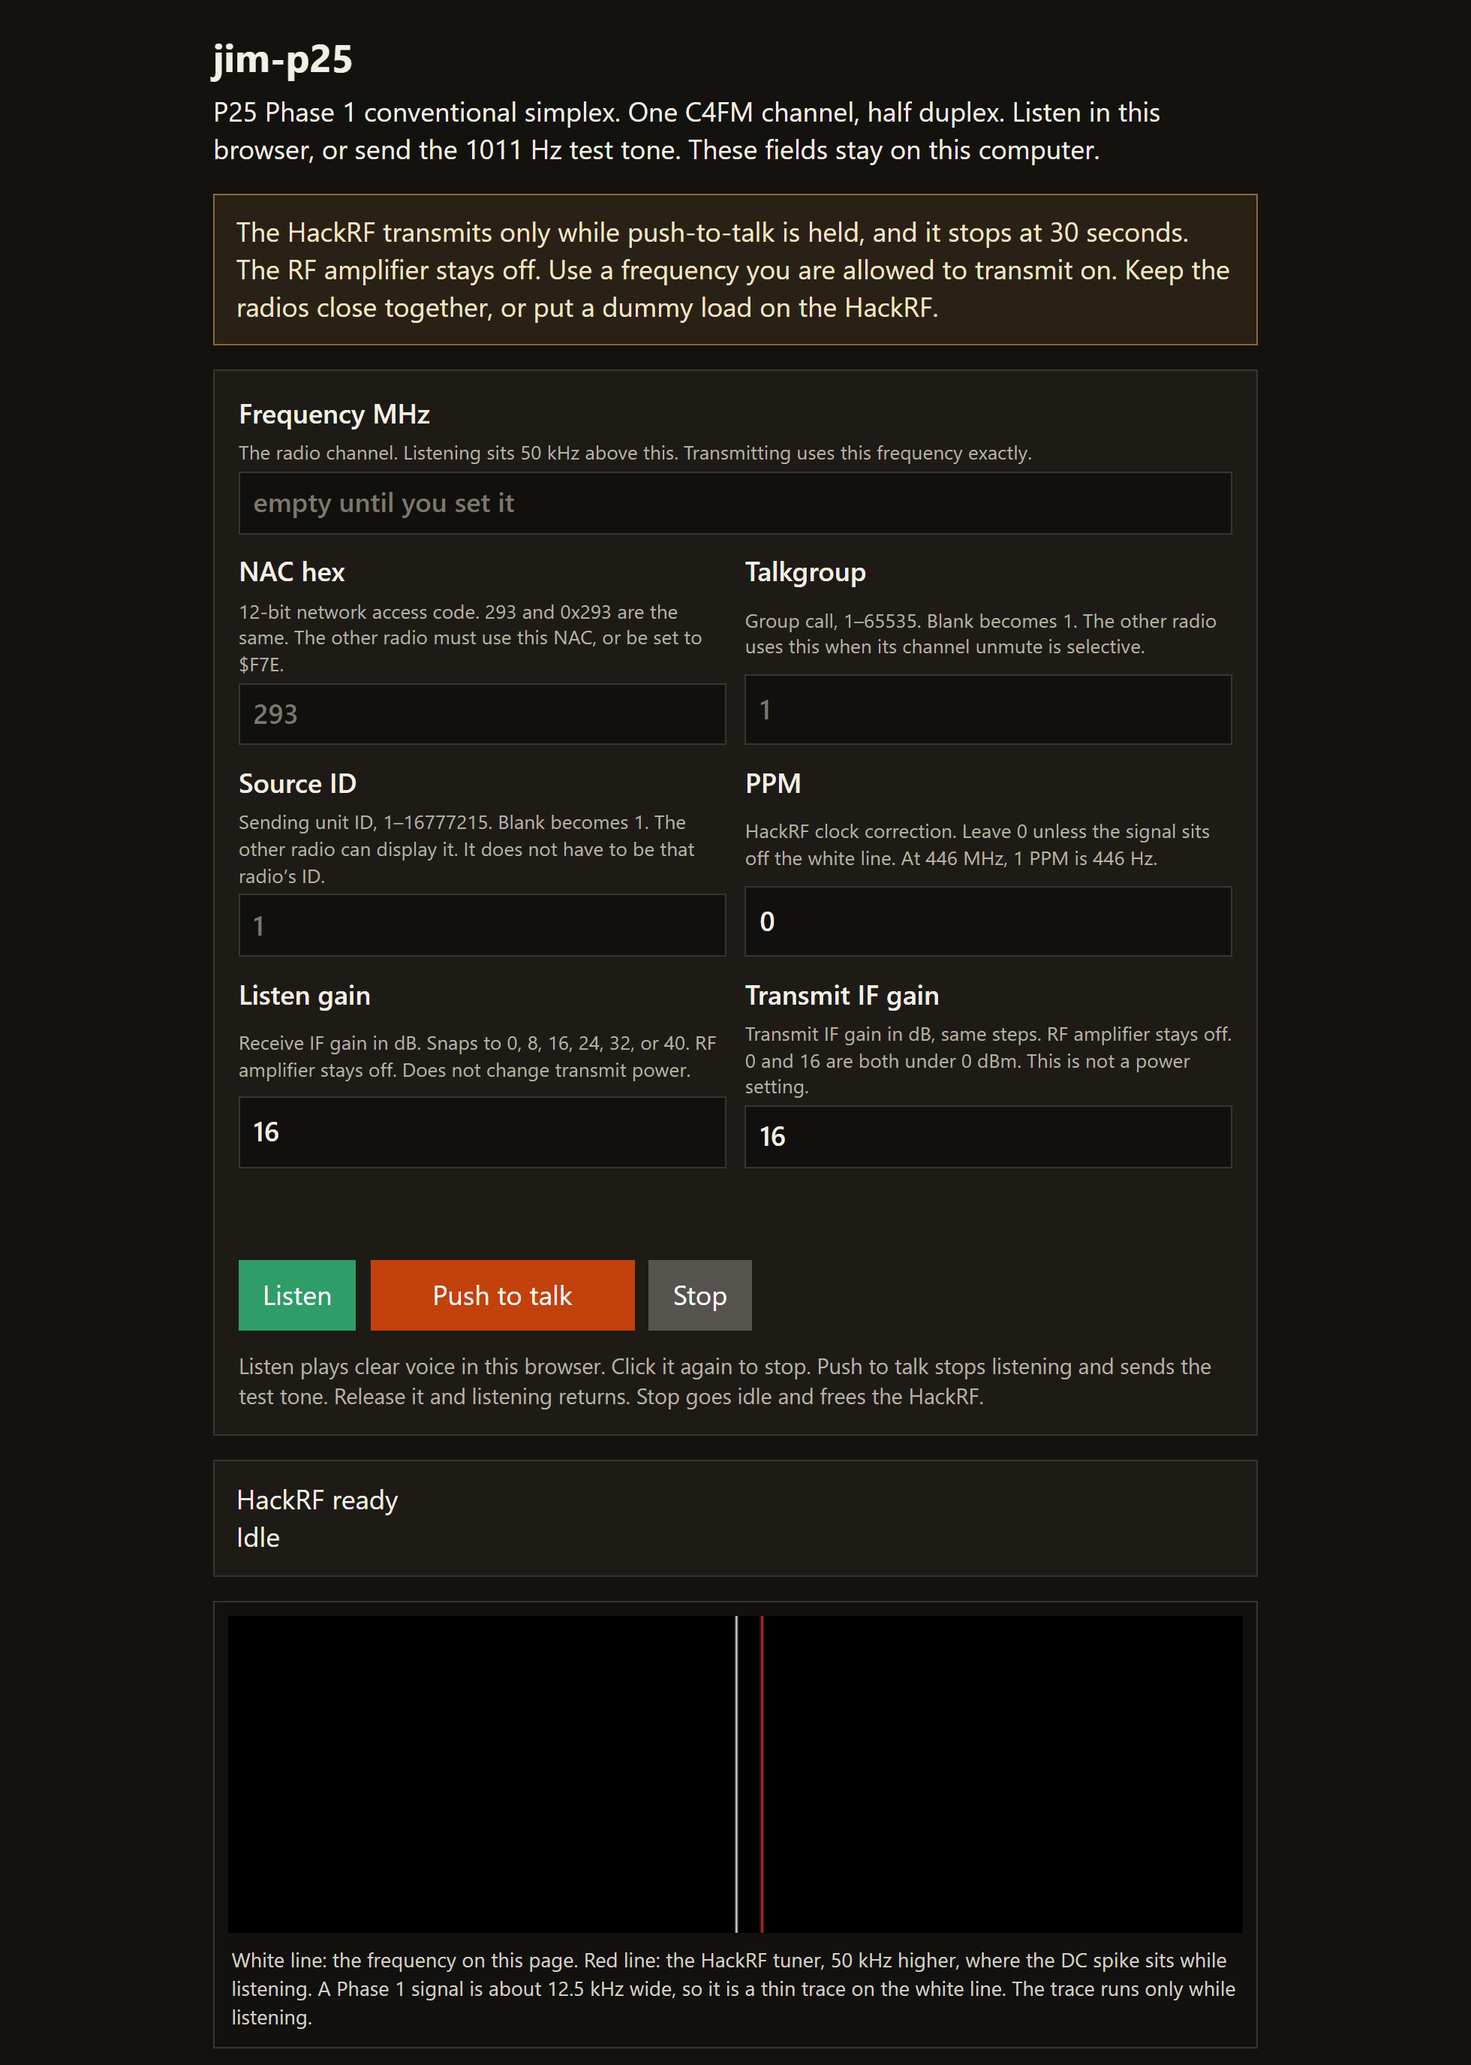
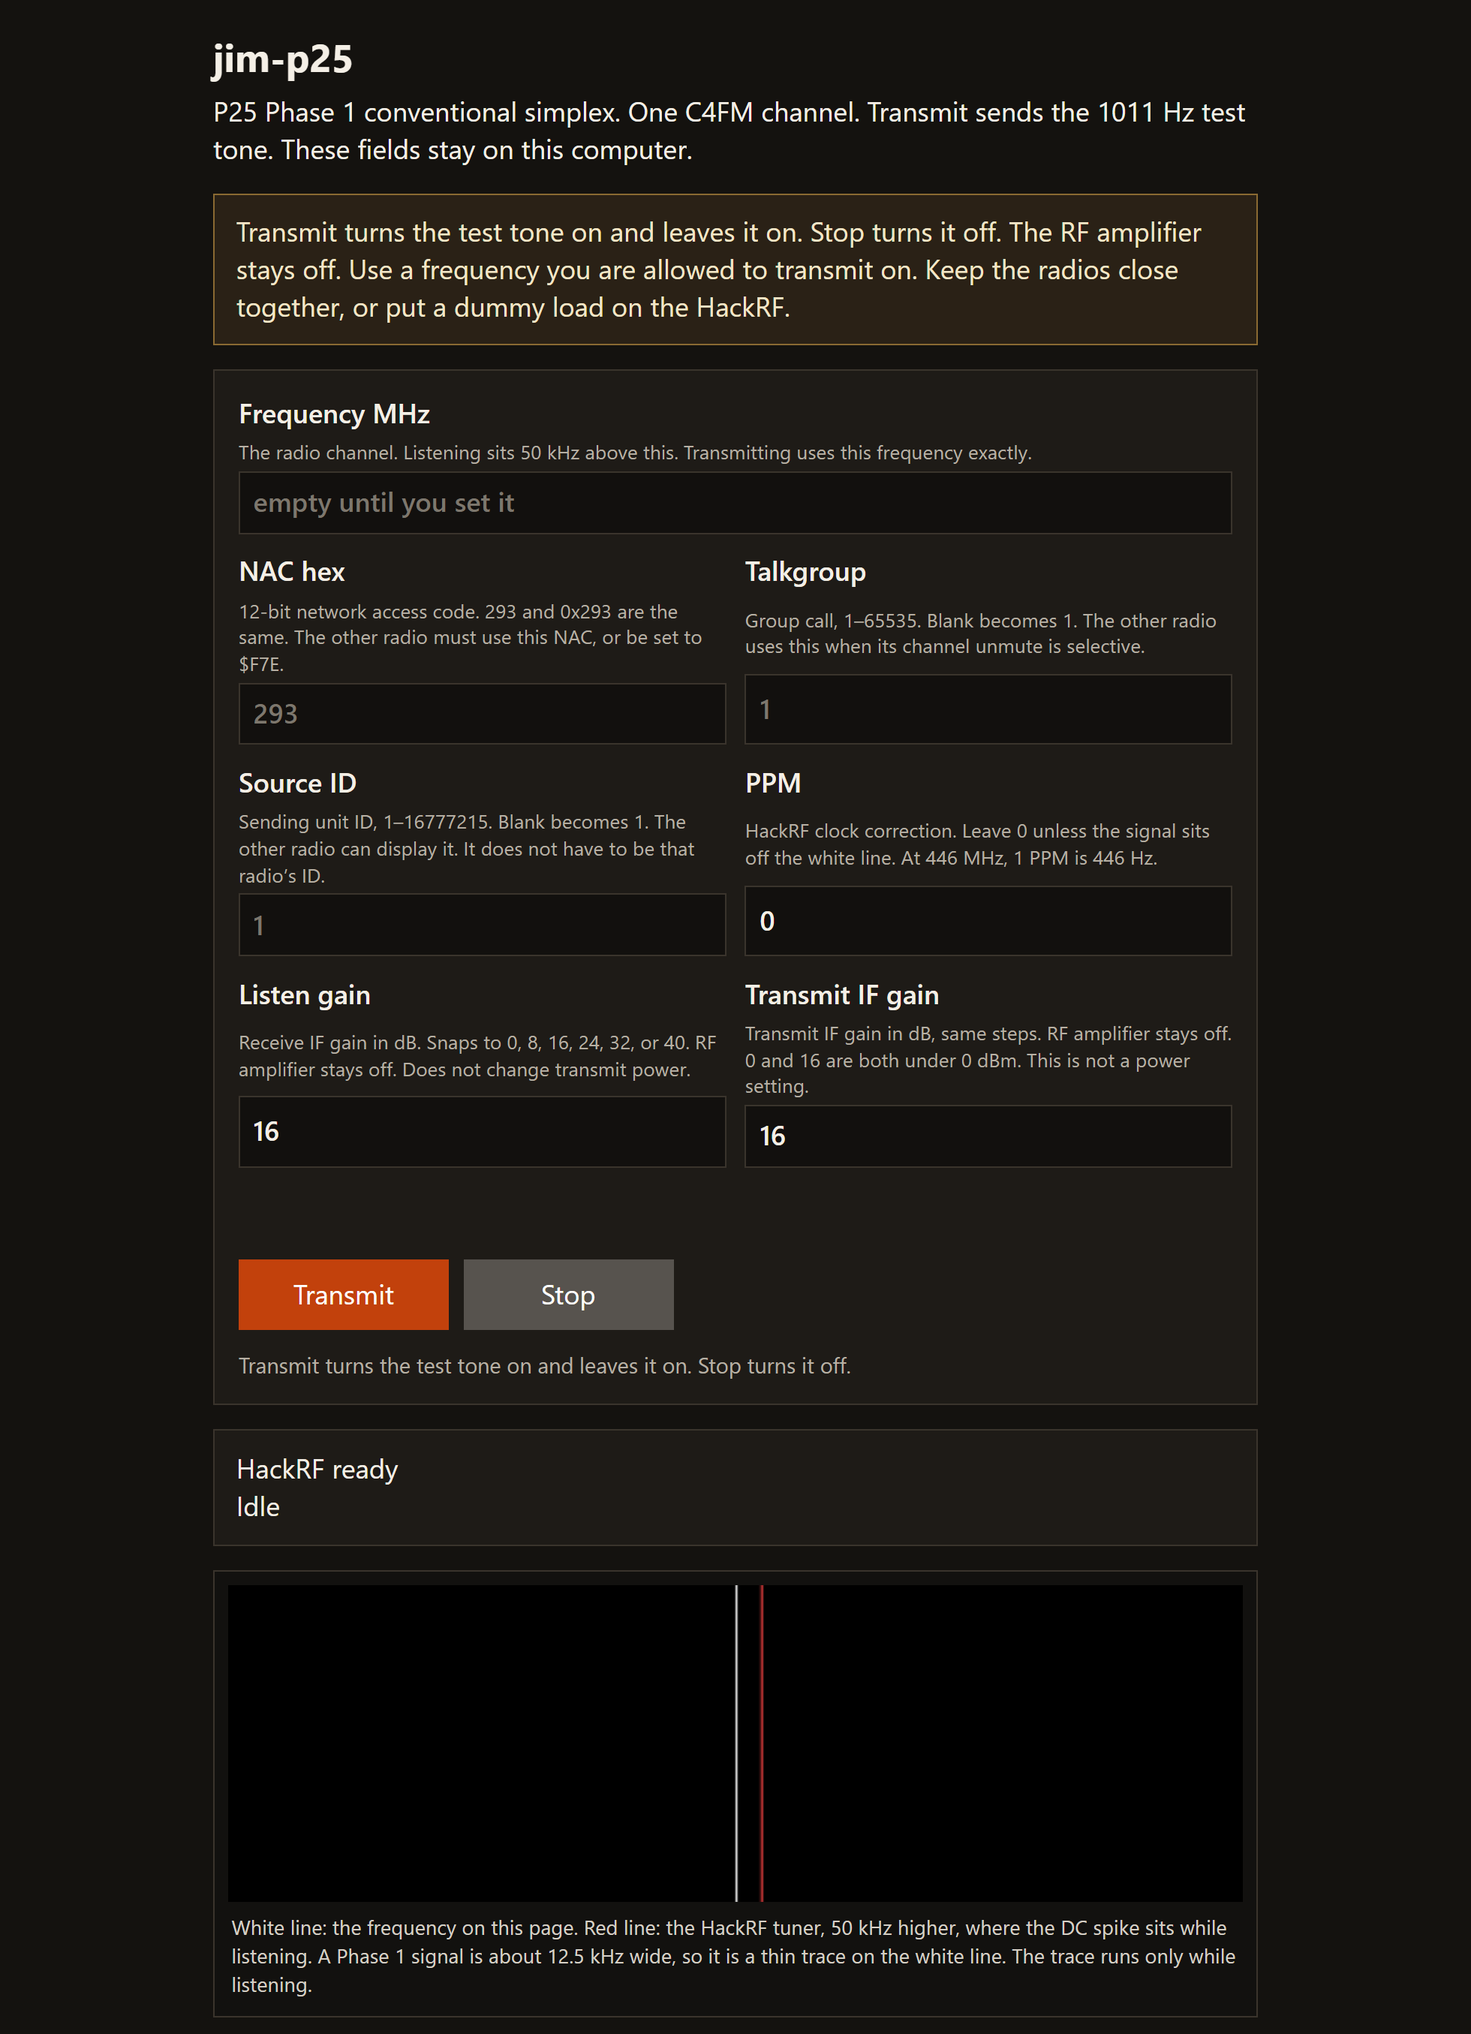
Latch transmit until Stop and document the two-button page.
Transmit leaves the 1011 Hz test tone on, with no time limit. The buttons are Transmit and Stop. NXDN is outside this OP25 build. Screenshots show the empty form.

diff --git a/app/index.html b/app/index.html
@@ -68,10 +68,14 @@
       color: white;
       cursor: pointer;
     }
-    button:disabled { opacity: 0.55; cursor: default; }
+    button:disabled { opacity: 0.45; cursor: default; }
+    .actions button { min-width: 8.75rem; }
     #listen { background: var(--listen); }
-    #ptt { background: var(--tx); min-width: 11rem; }
+    #listen.on { box-shadow: inset 0 0 0 3px #d1fae5; }
+    #ptt { background: var(--tx); }
+    #ptt.on { box-shadow: inset 0 0 0 3px #ffedd5; cursor: default; }
     #stop { background: #57534e; }
+    #stop.needed { background: #b91c1c; }
     #waterfall {
       margin: 1rem 0 0;
       background: #12110f;
@@ -115,9 +119,9 @@
 <body>
   <main>
     <h1>jim-p25</h1>
-    <p>P25 Phase 1 conventional simplex. One C4FM channel, half duplex. Listen in this browser, or send the 1011 Hz test tone. These fields stay on this computer.</p>
+    <p>P25 Phase 1 conventional simplex. One C4FM channel. Transmit sends the 1011 Hz test tone. These fields stay on this computer.</p>
     <div class="warn">
-      The HackRF transmits only while push-to-talk is held, and it stops at 30 seconds.
+      Transmit turns the test tone on and leaves it on. Stop turns it off.
       The RF amplifier stays off. Use a frequency you are allowed to transmit on.
       Keep the radios close together, or put a dummy load on the HackRF.
     </div>
@@ -158,11 +162,10 @@
       </div>
       <p id="err"></p>
       <div class="actions">
-        <button type="button" id="listen">Listen</button>
-        <button type="button" id="ptt">Push to talk</button>
+        <button type="button" id="ptt" aria-pressed="false">Transmit</button>
         <button type="button" id="stop">Stop</button>
       </div>
-      <p class="actionhelp">Listen plays clear voice in this browser. Click it again to stop. Push to talk stops listening and sends the test tone. Release it and listening returns. Stop goes idle and frees the HackRF.</p>
+      <p id="actionhelp" class="actionhelp">Transmit turns the test tone on and leaves it on. Stop turns it off.</p>
     </form>
     <div id="status">Checking the HackRF…</div>
     <figure id="waterfall">
@@ -173,13 +176,14 @@
       <h2>Help</h2>
       <h3>Channel</h3>
       <p>This panel is one conventional Phase 1 voice channel. The emission is C4FM, 12.5 kHz, FDMA. Phase 2 TDMA, trunking, scanning, and encryption keys are outside this panel. The call is a group call. The voice frames are clear IMBE, algorithm ID 80 hex, key ID 0. A radio with encryption off can decode them with its own IMBE decoder.</p>
-      <h3>Listen</h3>
-      <p>Listen opens the HackRF at 2 million samples per second and runs the CQPSK demodulator this build uses for Phase 1 C4FM. The vocoder turns clear IMBE into 8000 Hz audio, and this tab plays it. Leave the tab open.</p>
+      <h3>Receive</h3>
+      <p>Receive is not a button on this page. The buttons are Transmit and Stop, so the waterfall stays quiet.</p>
+      <p>The receiver is still in the program. When it runs, it opens the HackRF at 2 million samples per second and uses the CQPSK demodulator for Phase 1 C4FM. The vocoder turns clear IMBE into 8000 Hz audio for this browser.</p>
       <p>The local oscillator is 50 kHz above the frequency you typed, so the tuner’s DC spike stays off the carrier. The waterfall is 2 MHz wide and centered on your frequency. The white line is the channel. The red line is the local oscillator. If the thin voice trace sits above the white line, raise PPM. If it sits below, lower PPM. The red line itself is the 50 kHz offset, and PPM will not move it onto the white line.</p>
       <p>Start listen gain at 16. Raise it when the waterfall stays dark and no voice decodes. Lower it when the display turns into a bright band. The status line shows the NAC and talkgroup taken from decoded voice frames. A simplex channel sends no trunking control messages, so a control-channel timeout in the log is normal.</p>
       <h3>Transmit</h3>
-      <p>Push to talk sends the standard 1011 Hz Phase 1 test tone. That tone is an IMBE codeword, repeated until you release the button. Every frame carries the NAC, talkgroup, and source ID typed here. The microphone is unused. The HackRF is half duplex, so listening stops before the tone goes out, and release returns to listen.</p>
-      <p>GNU Radio takes a few seconds to start. Keep holding after the status says transmitting. The tone then runs until you release, or until the 30 second limit. During transmit the local oscillator is on the channel, so the DC spike is on the carrier. The waterfall pauses because the receiver is stopped.</p>
+      <p>Transmit sends the standard 1011 Hz Phase 1 test tone and leaves it on. Letting go does not stop it. Stop is the off switch. The tone is an IMBE codeword, repeated until then. Every frame carries the NAC, talkgroup, and source ID typed here. The microphone is unused.</p>
+      <p>GNU Radio takes a few seconds to start. The tone begins after the status says transmitting, and it stays until Stop. During transmit the local oscillator is on the channel, so the DC spike is on the carrier.</p>
       <p>Transmit IF gain is an amplifier step, from 0 to 40 dB in steps of 8. The RF amplifier, about 11 dB, stays off. HackRF has no calibrated dBm control. With the RF amplifier off, 0 and 16 are below 0 dBm (1 milliwatt). A setting near 40 can land around 0 dBm, and the real level still changes with frequency. The board’s maximum from 10 MHz to 2170 MHz is about 5 to 15 dBm, which takes the RF amplifier on and IF gain at 47. This panel never does that. On the bench, use 0 or 16, with the radios close or a dummy load fitted.</p>
       <h3>The other radio lights and stays quiet</h3>
       <ul>
@@ -247,10 +251,15 @@
         lines.push("Decoded NAC: " + (status.nac_decoded || "none yet"));
         lines.push("Talkgroup: " + (status.talkgroup || "none yet"));
       }
-      if (status.mode === "tx") lines.push("On the air. Release push-to-talk to stop.");
+      if (status.mode === "tx") lines.push("Test tone is on. Press Stop.");
       box.textContent = lines.join("\n");
-      $("listen").disabled = status.mode === "tx";
-      $("listen").textContent = status.mode === "listen" ? "Listening" : "Listen";
+      const mode = status.mode || "idle";
+      radioMode = mode;
+      const tone = $("ptt");
+      const stop = $("stop");
+      tone.classList.toggle("on", mode === "tx");
+      tone.setAttribute("aria-pressed", mode === "tx" ? "true" : "false");
+      stop.classList.toggle("needed", mode === "tx");
     }
 
     let audioCtx = null;
@@ -372,7 +381,6 @@
       try {
         const status = await (await fetch("/api/status")).json();
         paint(status);
-        if (status.mode === "listen" && audioCtx) pumpAudio();
       } catch (err) {
         $("status").textContent = "Page lost the radio process.";
       }
@@ -381,52 +389,22 @@
     for (const id of fields) $(id).addEventListener("input", remember);
     $("controls").addEventListener("submit", (event) => event.preventDefault());
 
-    $("listen").addEventListener("click", async () => {
-      showError("");
-      try {
-        const status = await (await fetch("/api/status")).json();
-        if (status.mode === "listen") {
-          paint(await post("/api/stop"));
-          return;
-        }
-        ensureAudio();
-        paint(await post("/api/listen", payload()));
-        pumpAudio();
-      } catch (err) {
-        showError(err.message);
-      }
-    });
-
-    let holding = false;
-    async function beginTx(event) {
-      event.preventDefault();
-      if (holding) return;
-      holding = true;
+    let radioMode = "idle";
+    let arming = false;
+    $("ptt").addEventListener("click", async () => {
+      if (arming || radioMode === "tx") return;
+      arming = true;
       showError("");
       try {
         paint(await post("/api/tx", payload()));
       } catch (err) {
-        holding = false;
         showError(err.message);
+      } finally {
+        arming = false;
       }
-    }
-    async function endTx() {
-      if (!holding) return;
-      holding = false;
-      try {
-        paint(await post("/api/release"));
-      } catch (err) {
-        showError(err.message);
-      }
-    }
-    const ptt = $("ptt");
-    ptt.addEventListener("pointerdown", beginTx);
-    ptt.addEventListener("pointerup", endTx);
-    ptt.addEventListener("pointercancel", endTx);
-    ptt.addEventListener("pointerleave", endTx);
+    });
 
     $("stop").addEventListener("click", async () => {
-      holding = false;
       showError("");
       try {
         paint(await post("/api/stop"));

diff --git a/app/radio.py b/app/radio.py
@@ -17,7 +17,7 @@ import threading
 import time
 from pathlib import Path
 
-from settings import TX_LIMIT_S, TX_SUPERFRAMES, SettingsError
+from settings import TX_SUPERFRAMES, SettingsError
 
 OP25_APPS = Path(os.environ.get("OP25_APPS", "/root/op25/op25/gr-op25_repeater/apps"))
 REPO = Path(__file__).resolve().parent.parent
@@ -393,7 +393,6 @@ class Radio:
             "nac_decoded": nac,
             "talkgroup": tg,
             "channel": view,
-            "tx_limit_s": TX_LIMIT_S,
         }
 
     def take_pcm(self) -> bytes:
@@ -557,34 +556,10 @@ class Radio:
             self._resume_listen = resume
             self._message = (
                 f"Transmitting test tone on {channel['frequency_mhz']} MHz. "
-                "Hold for a few seconds."
+                "Press Stop to end it."
             )
-            timer = threading.Timer(TX_LIMIT_S, self._tx_expired)
-            timer.daemon = True
-            self._timer = timer
             log.close()
-        timer.start()
         return {"ok": True, "nac_hex": channel["nac_hex"], "algid": channel["algid"]}
-
-    def _tx_expired(self) -> None:
-        with self._lock:
-            if self._mode != "tx":
-                return
-            proc = self._proc
-            self._proc = None
-            resume = self._resume_listen
-            channel = self._channel
-            self._mode = "idle"
-            self._resume_listen = False
-            self._timer = None
-            self._message = "Transmit stopped at the 30 second limit"
-        _stop_process(proc)
-        if resume and channel:
-            time.sleep(0.5)
-            try:
-                self.listen(channel)
-            except SettingsError:
-                pass
 
     def release(self) -> None:
         with self._lock:

diff --git a/app/settings.py b/app/settings.py
@@ -8,7 +8,6 @@ from pathlib import Path
 HACKRF_IF_GAINS = (0, 8, 16, 24, 32, 40)
 CLEAR_ALGID = 0x80
 TX_SUPERFRAMES = 70
-TX_LIMIT_S = 30
 FORM_FIELDS = ("frequency", "nac", "tgid", "src", "ppm", "rx_gain", "tx_if_gain")
 
 

diff --git a/README.md b/README.md
@@ -2,7 +2,7 @@
 
 P25 Phase 1 conventional simplex tester for a HackRF One and a Motorola radio you are allowed to test.
 
-The page runs in Ubuntu on WSL2 and opens in the Windows browser. You set one frequency and the P25 network access code (NAC). Listen plays decoded clear voice in the browser. Push-to-talk sends the standard 1011 Hz Phase 1 test tone with that NAC, talkgroup, and source ID.
+The page runs in Ubuntu on WSL2 and opens in the Windows browser. You set one frequency and the P25 network access code (NAC). Transmit latches the standard 1011 Hz Phase 1 test tone with that NAC, talkgroup, and source ID. Stop turns the tone off.
 
 ## The page
 
@@ -10,7 +10,7 @@ These pictures are the empty form. A frequency you type is saved on this compute
 
 ![jim-p25 controls and listening waterfall](docs/panel.png)
 
-Listen, push-to-talk, and Stop sit with the channel fields. The status card is next, then the waterfall. The waterfall stays quiet until Listen is on. The white line is the channel. The red line is the tuner, 50 kHz higher.
+Transmit and Stop sit under the channel fields. The status card is next, then the waterfall. Receive is not a button on this page, so the waterfall stays quiet. The white line is the channel. The red line is the tuner, 50 kHz higher.
 
 ![Help for the NAC, the gains, and a silent radio](docs/help.png)
 
@@ -24,7 +24,7 @@ In scope:
 - A small page: frequency, NAC, talkgroup, source ID, clock correction (PPM), listen gain, and transmit IF gain.
 - Clear voice only. The algorithm ID is fixed at `0x80`. There is no key field.
 - Push-to-talk audio is the 1011 Hz IMBE test tone, so the NAC and IDs on the page are the ones in the frames. OP25’s live microphone coder hardcodes a NAC, so this page does not use the mic.
-- Half duplex. The HackRF listens or transmits, never both. Transmit runs only while the button is held, and it stops after 30 seconds. RF gain stays at 0.
+- Half duplex. The HackRF listens or transmits, never both. The page buttons are Transmit and Stop. Transmit latches the test tone until Stop. RF gain stays at 0.
 - A listening waterfall, 2 MHz wide, centered on the channel. The white line is the channel. The red line is the HackRF local oscillator, 50 kHz higher.
 
 Out of scope:
@@ -33,6 +33,7 @@ Out of scope:
 - Encryption, decryption, and keys.
 - Inhibit, radio-check, and other radio-disable messages.
 - Firmware flashing.
+- NXDN. This OP25 build can encode P25, DMR, D-Star, and Yaesu System Fusion. The page sends only the P25 test tone. There is no NXDN encoder in the build.
 
 Use a frequency you are allowed to transmit on. Keep the radios close together, or put a dummy load on the HackRF.
 
@@ -61,7 +62,7 @@ From this folder in PowerShell:
 
 On the page, enter the frequency in MHz and the NAC in hex (`293` and `0x293` are the same). An empty talkgroup or source ID becomes 1. PPM is the HackRF clock correction in parts per million. Leave it at 0 unless the radio is slightly off the channel. At 446 MHz, 1 PPM is about 446 Hz.
 
-Click Listen and leave the tab open. The browser plays the voice. Hold Push to talk for a few seconds after the status says transmitting. GNU Radio spends a few seconds starting, then the tone repeats until you release the button. Stop returns to idle.
+The buttons are Transmit and Stop. Transmit latches the test tone on, and letting go does not stop it. Stop turns it off. GNU Radio spends a few seconds starting.
 
 The page stores frequency, NAC, talkgroup, source ID, PPM, and both gains in `local/settings.json` as you type, and fills them back in when you open it. Listen and transmit also write the channel files under `local/`. That folder is gitignored, along with logs. Nothing in git has a channel filled in.
 
@@ -155,9 +156,9 @@ Encrypted frames stay silent. A NAC of `F7E` or `F7F` on the page accepts any re
 
 ### Transmit
 
-Push-to-talk stops listen, builds a symbol file, and starts `dv_tx.py`. Release stops transmit and, if listen was on, starts listen again.
+Transmit builds a symbol file and starts `dv_tx.py`. The tone repeats until Stop. Stop returns the HackRF to idle. There is no time limit.
 
-`p25craft.py` writes the clear group call: NAC, talkgroup, and source ID from the page, destination unused for a group call, algorithm `0x80`, key ID 0, manufacturer ID 0, link-control opcode 0. The voice codeword is the TIA 1011 Hz test vector. `unpack.py` turns that into dibits 0–3. `dv_tx.py` C4FM-modulates the file at 2 Msps, repeats it until release, and sends it to the HackRF with extra USB buffers. The first moments can print `U`, which is one buffer of silence. The tone follows.
+`p25craft.py` writes the clear group call: NAC, talkgroup, and source ID from the page, destination unused for a group call, algorithm `0x80`, key ID 0, manufacturer ID 0, link-control opcode 0. The voice codeword is the TIA 1011 Hz test vector. `unpack.py` turns that into dibits 0–3. `dv_tx.py` C4FM-modulates the file at 2 Msps, repeats it until Stop, and sends it to the HackRF with extra USB buffers. The first moments can print `U`, which is one buffer of silence. The tone follows.
 
 ```mermaid
 flowchart LR
